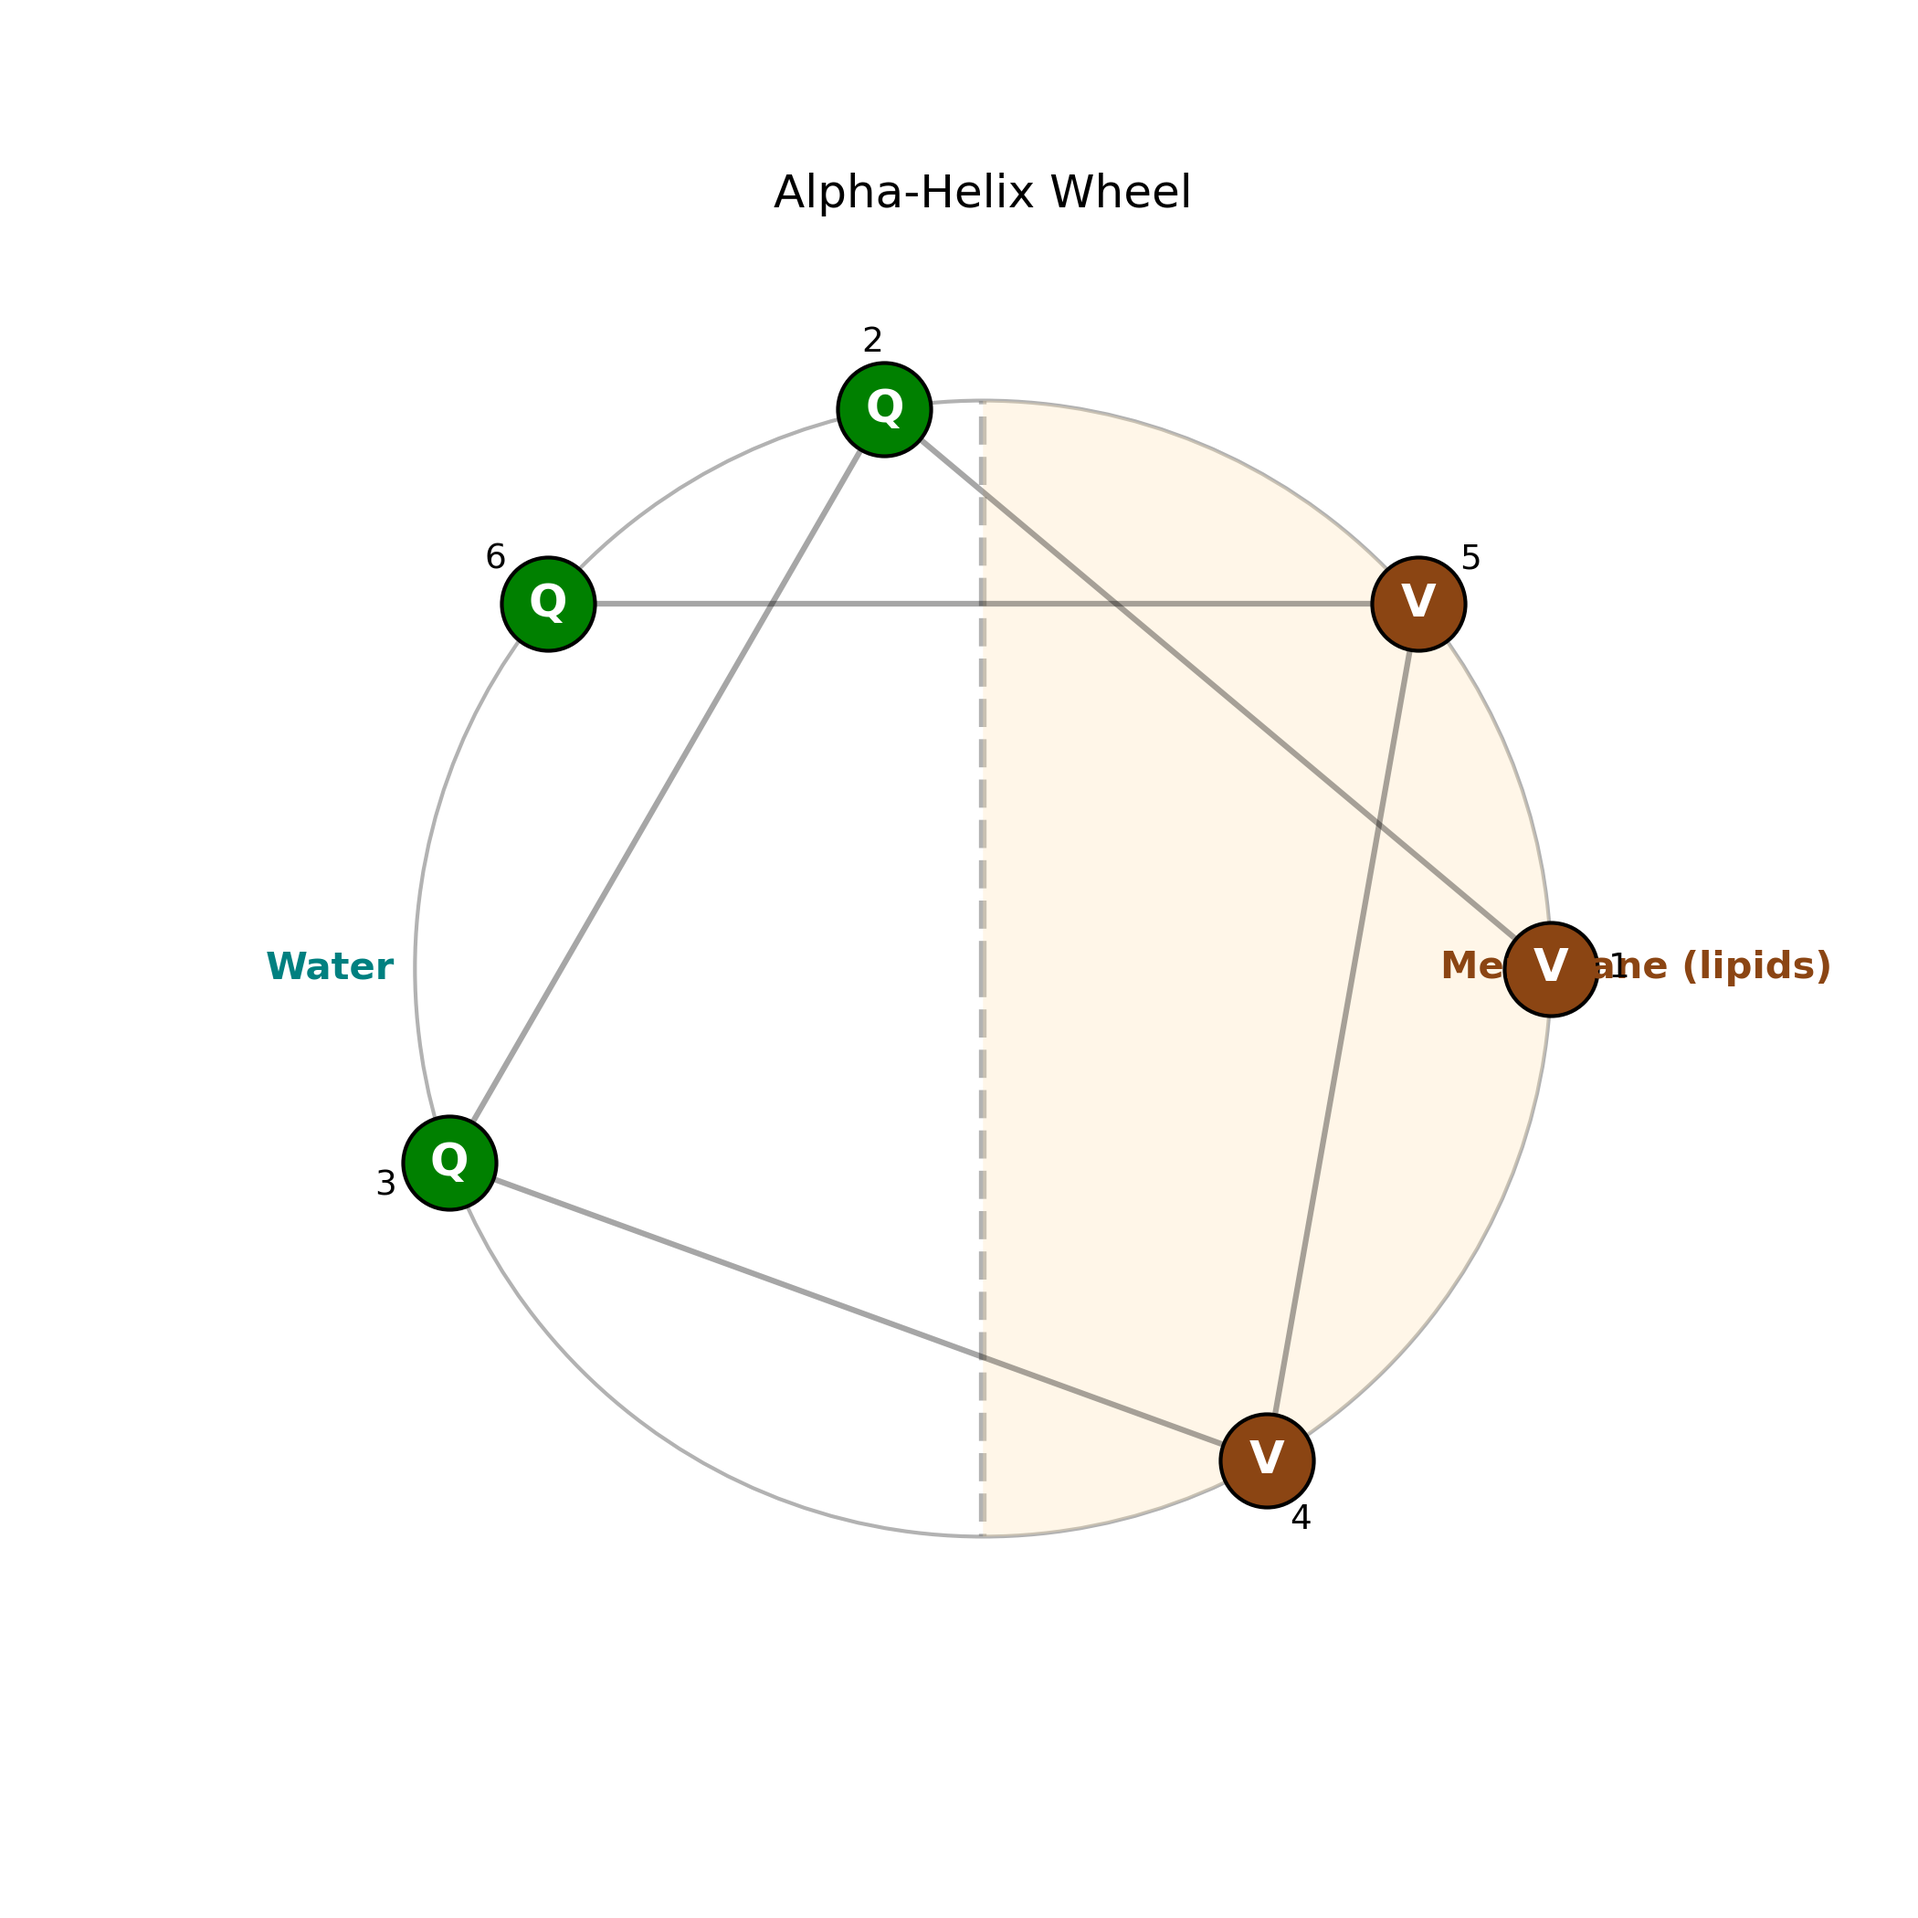
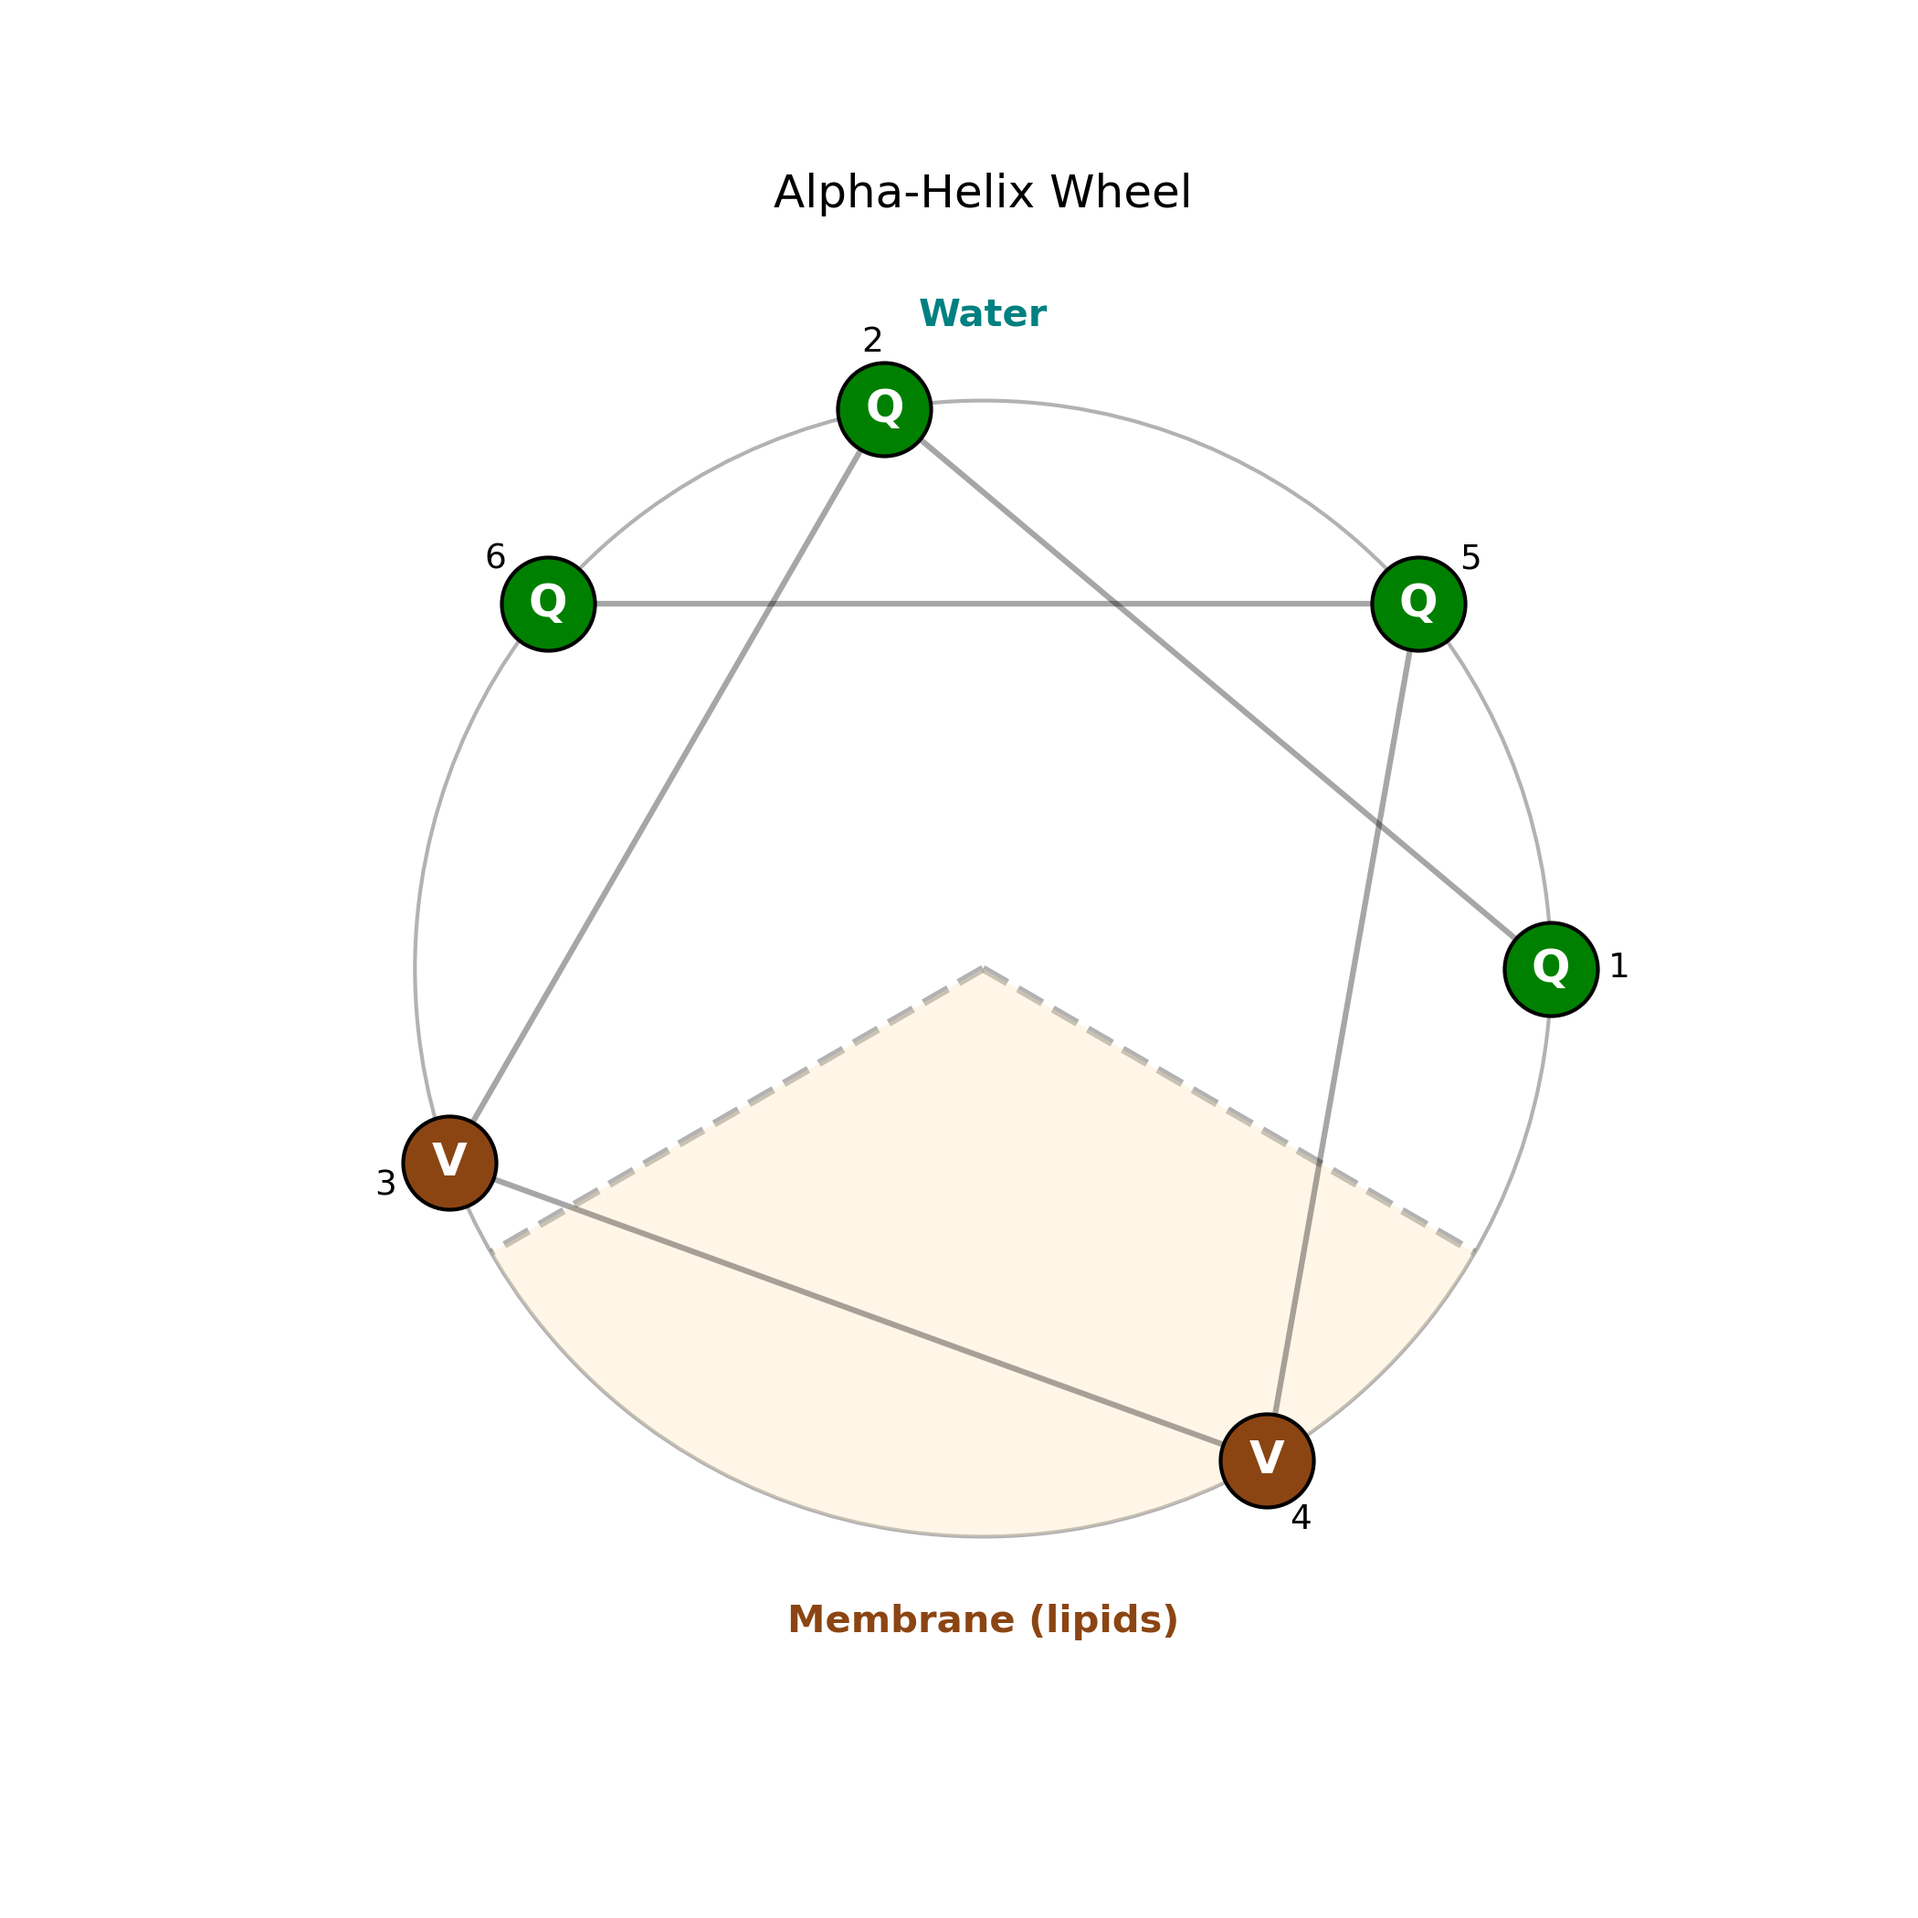
final_version

diff --git a/Code/core/hamiltonian_builder.py b/Code/core/hamiltonian_builder.py
@@ -279,24 +279,33 @@ class HamiltonianBuilder:
         """Enhanced hydrophobic moment using normalized properties"""
         print("\nDEBUG: Adding enhanced hydrophobic moment terms (normalized)...")
         phi = np.deg2rad(100.0)
+        phase_deg = self.kwargs.get('wheel_phase_deg', 0.0)
+        phase_rad = np.deg2rad(phase_deg)
         for i in range(self.L):
             for j in range(self.L):
                 if i == j or abs(i - j) > 7:
                     continue
                 angle_i = phi * i
                 angle_j = phi * j
-                cos_i = np.cos(angle_i)
-                sin_i = np.sin(angle_i)
-                cos_j = np.cos(angle_j)
-                sin_j = np.sin(angle_j)
-                alignment = cos_i * cos_j + sin_i * sin_j
+                alignment = np.cos(angle_i - angle_j)
+                # Clustering term (existing, rotation-invariant)
                 for α in range(self.n_aa):
                     for β in range(self.n_aa):
                         h_i = max(0, self.normalized_hydrophobic[α])
                         h_j = max(0, self.normalized_hydrophobic[β])
-                        coupling = -weight * h_i * h_j * alignment / (self.L * 2.0)
-                        if abs(coupling) > 1e-6:
-                            self._add_pairwise_coupling_term(i, j, α, β, coupling)
+                        coupling_cluster = -weight * h_i * h_j * alignment / (self.L * 2.0)
+                        if abs(coupling_cluster) > 1e-6:
+                            self._add_pairwise_coupling_term(i, j, α, β, coupling_cluster)
+                # Orientation term: biases cluster toward membrane direction (phase)
+                # cos(angle_i + angle_j - 2*phase) encourages average angle ~ phase
+                alignment_ori = np.cos(angle_i + angle_j - 2 * phase_rad)
+                for α in range(self.n_aa):
+                    for β in range(self.n_aa):
+                        h_i = max(0, self.normalized_hydrophobic[α])
+                        h_j = max(0, self.normalized_hydrophobic[β])
+                        coupling_ori = -weight * h_i * h_j * alignment_ori / (self.L * 2.0)  # /2 from expansion, but tune if needed
+                        if abs(coupling_ori) > 1e-6:
+                            self._add_pairwise_coupling_term(i, j, α, β, coupling_ori)
         self._normalize_pauli_terms()
 
     def _add_amphipathic_segregation_terms(self, weight: float):

diff --git a/Code/main_final.py b/Code/main_final.py
@@ -475,11 +475,11 @@ if __name__ == '__main__':
     parser.add_argument('--wheel_phase_deg', type=float, default=0.0, help='Phase angle for helical wheel in degrees.')  # ¡Cambiado default a 0.0!
     parser.add_argument('--wheel_halfwidth_deg', type=float, default=80.0, help='Half-width of the membrane sector in degrees for helical wheel.')  # ¡Cambiado a 80.0 para sensibilidad!
     parser.add_argument('--lambda_env', type=float, default=4.0, help='Weight of the environment preference term.')
-    parser.add_argument('--lambda_charge', type=float, default=0.0, help='Weight of the membrane charge term.')
-    parser.add_argument('--lambda_mu', type=float, default=0.0, help='Weight of the hydrophobic moment term.')
-    parser.add_argument('--lambda_local', type=float, default=0.0, help='Weight of the local preference terms.')
-    parser.add_argument('--lambda_pairwise', type=float, default=0.0, help='Weight of the pairwise interaction term (Miyazawa-Jernigan).')
-    parser.add_argument('--lambda_helix_pairs', type=float, default=0.0, help='Weight of the helix pair propensity term.')
+    parser.add_argument('--lambda_charge', type=float, default=0.5, help='Weight of the membrane charge term.')
+    parser.add_argument('--lambda_mu', type=float, default=0.5, help='Weight of the hydrophobic moment term.')
+    parser.add_argument('--lambda_local', type=float, default=0.5, help='Weight of the local preference terms.')
+    parser.add_argument('--lambda_pairwise', type=float, default=0.5, help='Weight of the pairwise interaction term (Miyazawa-Jernigan).')
+    parser.add_argument('--lambda_helix_pairs', type=float, default=0.5, help='Weight of the helix pair propensity term.')
     parser.add_argument('--max_interaction_dist', type=int, default=4, help='Maximum sequence distance for pairwise interactions.')
     parser.add_argument('--membrane_charge', type=str, default='neu', choices=['neu', 'neg', 'pos'], help='Charge of the membrane.')
     
